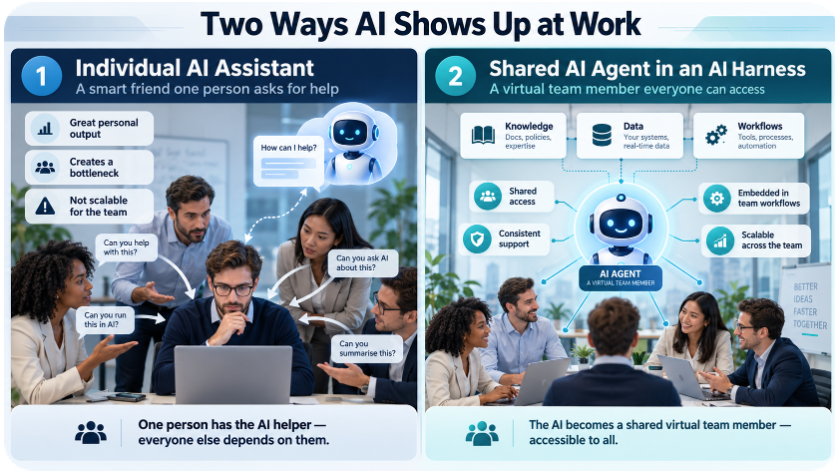
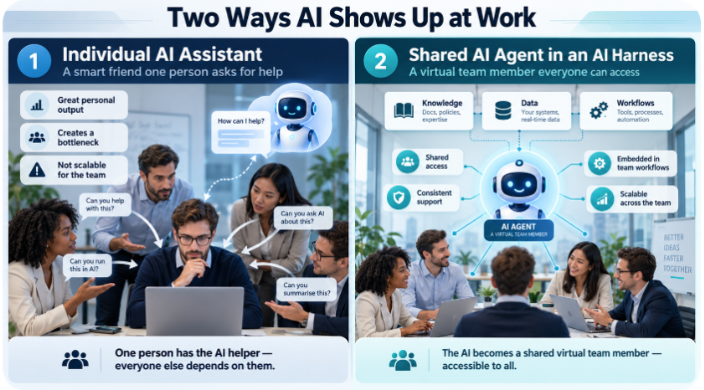
Overview heading wording; Dani's two-ways image
Claude-Session: https://claude.ai/code/session_01GNtzEbzvkd9eiqh1GzaXSD

diff --git a/src/overview.js b/src/overview.js
@@ -8,7 +8,7 @@ const OVERVIEW = {
   source: 'Telkom Shared Services · H1 FY27 EBR',
   tabs: [
     {
-      id: 'agenda', label: 'Overview', title: 'F&A and Fixed Assets · H1 FY27 Executive Business Review',
+      id: 'agenda', label: 'Overview', title: 'Finance and Accounting and Fixed Assets · H1 FY27 Executive Business Review',
       blocks: [
         {
           type: 'hero', items: [
